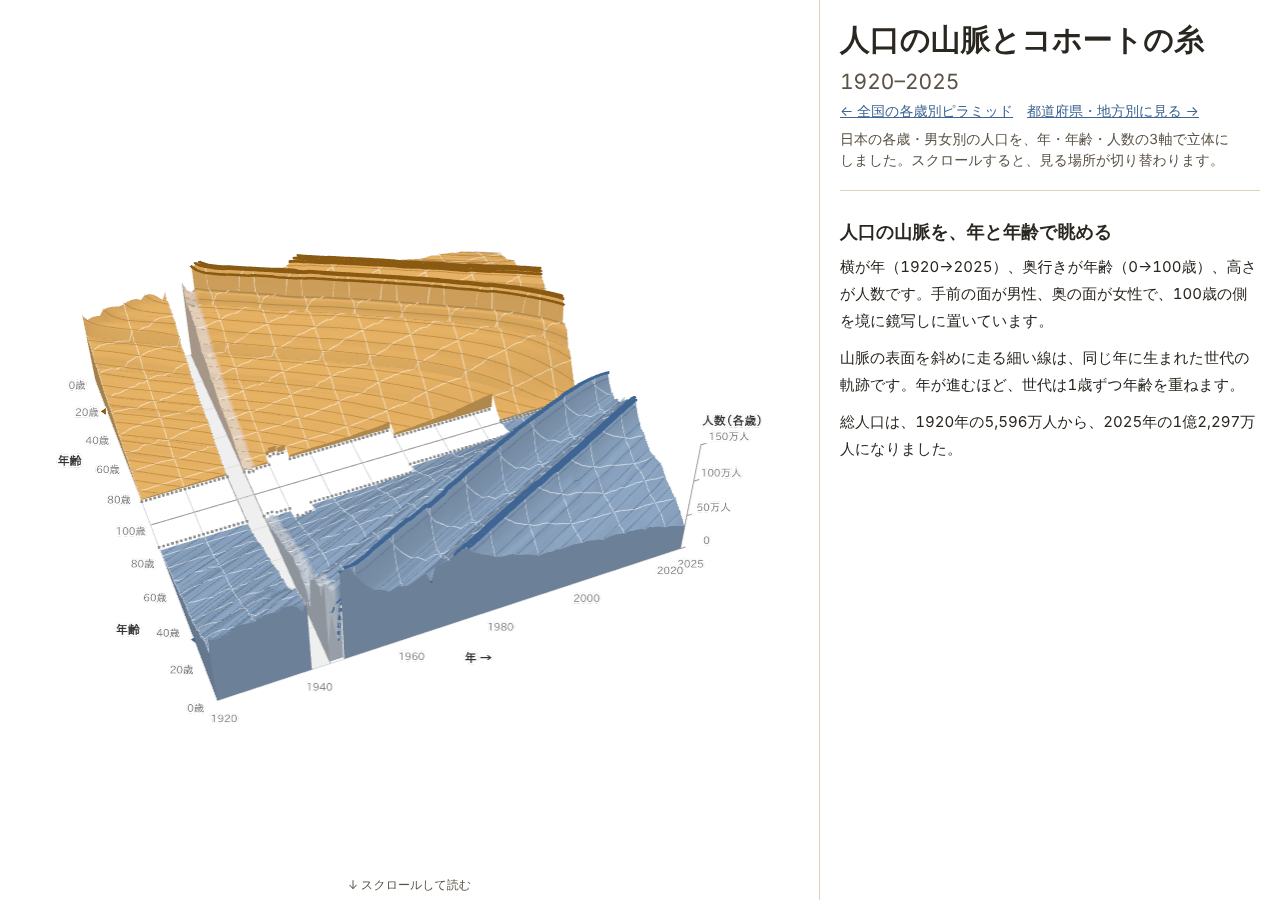
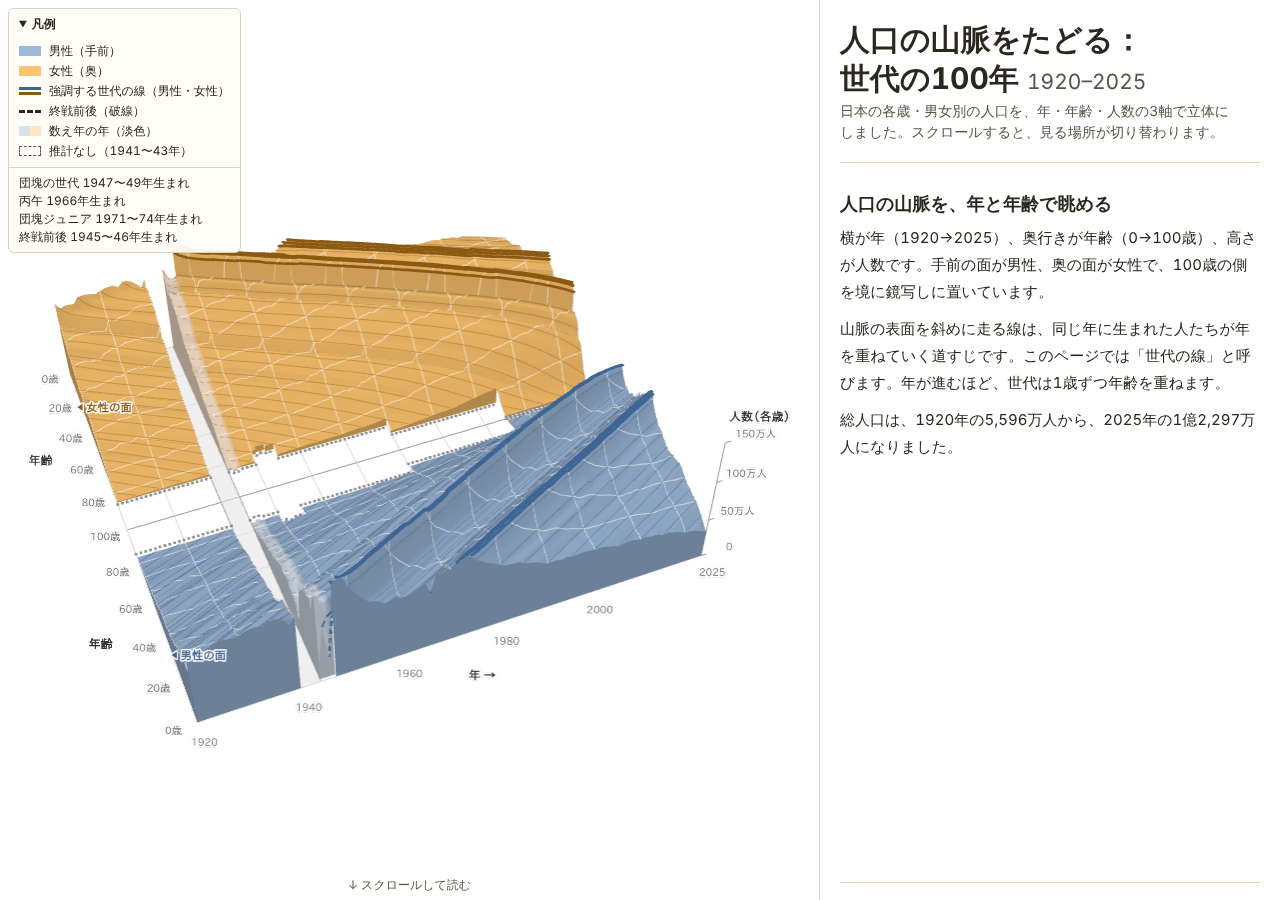
3Dページのタイトルを「人口の山脈をたどる：世代の100年」に改め、「コホートの糸」を「世代の線」に言い換え
- title・h1・og:title・転送ページ・README のページ名を新しいタイトルにする。h1 は2行に分けられる span にした
- 説明文・ツアー・凡例・canvas の aria-label の「糸」「コホート」を「世代の線」に言い換える
- overview の段に、世代の線が何かを説明する1文を足す
- docs/MOUNTAIN.md に画面での表記を1行足す
- E2E の文言を合わせ、本文に「糸」「コホート」が出ないことの検査を足す
- docs/screenshots/mountain-overview-*.png を撮り直す

Claude-Session: https://claude.ai/code/session_01PEzRMk3itmbneTSnLhfQa4

diff --git a/index.html b/index.html
@@ -3,12 +3,12 @@
 <head>
   <meta charset="utf-8">
   <meta name="viewport" content="width=device-width, initial-scale=1">
-  <title>人口の山脈とコホートの糸 1920–2025</title>
-  <meta name="description" content="日本の各歳別人口を、年・年齢・人数の3軸の山脈として眺めます。同じ年に生まれた世代の軌跡（コホートの糸）をたどれます。">
+  <title>人口の山脈をたどる：世代の100年 1920–2025</title>
+  <meta name="description" content="日本の各歳別人口を、年・年齢・人数の3軸の山脈として眺めます。同じ年に生まれた世代が年を重ねていく道すじ（世代の線）をたどれます。">
   <link rel="canonical" href="https://population-pyramid.structure-and-representation.com/">
   <meta property="og:type" content="website">
-  <meta property="og:title" content="人口の山脈とコホートの糸 1920–2025">
-  <meta property="og:description" content="日本の各歳別人口を、年・年齢・人数の3軸の山脈として眺めます。同じ年に生まれた世代の軌跡（コホートの糸）をたどれます。">
+  <meta property="og:title" content="人口の山脈をたどる：世代の100年 1920–2025">
+  <meta property="og:description" content="日本の各歳別人口を、年・年齢・人数の3軸の山脈として眺めます。同じ年に生まれた世代が年を重ねていく道すじ（世代の線）をたどれます。">
   <meta property="og:url" content="https://population-pyramid.structure-and-representation.com/">
   <meta property="og:image" content="https://population-pyramid.structure-and-representation.com/assets/mountain-fallback.png">
   <meta name="twitter:card" content="summary_large_image">
@@ -33,7 +33,7 @@
           <ul class="legend-list">
             <li><span class="sw sw-male"></span>男性（手前）</li>
             <li><span class="sw sw-female"></span>女性（奥）</li>
-            <li><span class="sw sw-thread"><i class="tm"></i><i class="tf"></i></span>強調する世代の糸（男性・女性）</li>
+            <li><span class="sw sw-thread"><i class="tm"></i><i class="tf"></i></span>強調する世代の線（男性・女性）</li>
             <li><span class="sw sw-dash"></span>終戦前後（破線）</li>
             <li><span class="sw sw-kazoe"></span>数え年の年（淡色）</li>
             <li><span class="sw sw-gap"></span><span id="legend-gap">推計なし（1941〜43年）</span></li>
@@ -53,33 +53,33 @@
 
     <div class="m-text">
       <header class="site-header">
-        <h1>人口の山脈とコホートの糸 <span class="range">1920–2025</span></h1>
+        <h1><span class="t-line">人口の山脈をたどる：</span><span class="t-line">世代の100年</span> <span class="range">1920–2025</span></h1>
         <p class="lede">日本の各歳・男女別の人口を、年・年齢・人数の3軸で立体にしました。<span class="d3-only">スクロールすると、見る場所が切り替わります。</span></p>
       </header>
 
       <section class="scene-step" data-step="overview" aria-labelledby="h-overview">
         <h2 id="h-overview">人口の山脈を、年と年齢で眺める</h2>
         <p>横が年（1920→2025）、奥行きが年齢（0→100歳）、高さが人数です。手前の面が男性、奥の面が女性で、100歳の側を境に鏡写しに置いています。</p>
-        <p>山脈の表面を斜めに走る細い線は、同じ年に生まれた世代の軌跡です。年が進むほど、世代は1歳ずつ年齢を重ねます。</p>
+        <p>山脈の表面を斜めに走る線は、同じ年に生まれた人たちが年を重ねていく道すじです。このページでは「世代の線」と呼びます。年が進むほど、世代は1歳ずつ年齢を重ねます。</p>
         <p>総人口は、1920年の<span data-calc="total-1920">5,596万人</span>から、2025年の<span data-calc="total-2025">1億2,297万人</span>になりました。</p>
       </section>
 
       <section class="scene-step" data-step="war" aria-labelledby="h-war">
         <h2 id="h-war">戦争の時期は、データに切れ目がある</h2>
-        <p><span data-note-text="gap-1941-1943">1941〜1943年は年齢別の人口推計が行われていないため、表示していません。</span>面にはすき間が空き、補間はしません。<span data-note-text="kazoe">1944〜1946年の年齢は数え年です。</span>その帯は淡く描き、世代の糸も破線にしています。</p>
+        <p><span data-note-text="gap-1941-1943">1941〜1943年は年齢別の人口推計が行われていないため、表示していません。</span>面にはすき間が空き、補間はしません。<span data-note-text="kazoe">1944〜1946年の年齢は数え年です。</span>その帯は淡く描き、世代の線も破線にしています。</p>
         <p>終戦前後の1945〜1946年生まれ（破線）は、出生が大きく減った世代です。1950年には、3歳（1947年生まれ）の<span data-calc="p1950-3">235万人</span>に対し、4歳（1946年生まれ）は<span data-calc="p1950-4">154万人</span>しかいません。</p>
       </section>
 
       <section class="scene-step" data-step="dankai" aria-labelledby="h-dankai">
         <h2 id="h-dankai">団塊の世代：第1次ベビーブーム</h2>
         <p>1947〜1949年に生まれた「団塊の世代」は、戦後の第1次ベビーブームの世代です。<a href="https://www.mhlw.go.jp/toukei/saikin/hw/jinkou/kakutei25/dl/05_gaikyouR07.pdf" target="_blank" rel="noopener">厚生労働省「人口動態統計」</a>によると、出生数は1947年に2,678,792人、1948年に2,681,624人、1949年に2,696,638人でした。1947〜1972年の出生数には沖縄県を含みません。</p>
-        <p>強調した糸をたどると、この世代は2025年に76〜78歳で、合わせて約<span data-calc="dankai-2025">552万人</span>です。</p>
+        <p>強調した世代の線をたどると、この世代は2025年に76〜78歳で、合わせて約<span data-calc="dankai-2025">552万人</span>です。</p>
       </section>
 
       <section class="scene-step" data-step="hinoeuma" aria-labelledby="h-hinoeuma">
         <h2 id="h-hinoeuma">丙午（1966年生まれ）：出生数の谷</h2>
         <p>1966年は丙午（ひのえうま）の年です。出生数は、前年の1965年に1,823,697人、1966年に1,360,974人、翌1967年に1,935,647人でした（<a href="https://www.mhlw.go.jp/toukei/saikin/hw/jinkou/kakutei25/dl/05_gaikyouR07.pdf" target="_blank" rel="noopener">厚生労働省「人口動態統計」</a>）。1947〜1972年の出生数には沖縄県を含みません。</p>
-        <p>糸は、2025年の断面ではここだけ谷を通ります。2025年には59歳で<span data-calc="h-59">138万人</span>と、58歳の<span data-calc="h-58">178万人</span>、60歳の<span data-calc="h-60">170万人</span>より少なくなっています。</p>
+        <p>この世代の線は、2025年の断面ではここだけ谷を通ります。2025年には59歳で<span data-calc="h-59">138万人</span>と、58歳の<span data-calc="h-58">178万人</span>、60歳の<span data-calc="h-60">170万人</span>より少なくなっています。</p>
       </section>
 
       <section class="scene-step" data-step="dankai-jr" aria-labelledby="h-dankai-jr">
@@ -90,7 +90,7 @@
 
       <section class="scene-step" data-step="flight" aria-labelledby="h-flight">
         <h2 id="h-flight">団塊の世代の尾根に沿って飛ぶ</h2>
-        <p class="d3-only">団塊の世代（1947〜49年生まれ）の糸に沿って、男性の面の尾根のすぐ脇を低く飛びます。生まれた年から2025年まで、この世代が年齢を重ねていく道のりを、尾根の際からたどります。</p>
+        <p class="d3-only">団塊の世代（1947〜49年生まれ）の世代の線に沿って、男性の面の尾根のすぐ脇を低く飛びます。生まれた年から2025年まで、この世代が年齢を重ねていく道のりを、尾根の際からたどります。</p>
         <p class="d3-only">左に見える高い尾根が団塊の世代、右の谷とその先の尾根が、後から生まれた世代です。画面に触れると止まります。</p>
         <p class="fallback-only">対応した環境では、団塊の世代の尾根に沿って、生まれた年から2025年まで低く飛ぶ視点を表示します。</p>
         <p class="d3-only"><button type="button" id="btn-fly-again" class="btn-reset">もう一度飛ぶ</button></p>
@@ -105,7 +105,7 @@
 
       <section class="scene-step" id="free" data-step="free" aria-labelledby="h-free">
         <h2 id="h-free">自分で動かして確かめる</h2>
-        <p class="d3-only">ドラッグで回転、ホイールやピンチで拡大・縮小できます。山脈や糸にカーソルを合わせる（スマートフォンではタップする）と、その地点の人数が出ます。</p>
+        <p class="d3-only">ドラッグで回転、ホイールやピンチで拡大・縮小できます。山脈や世代の線にカーソルを合わせる（スマートフォンではタップする）と、その地点の人数が出ます。</p>
         <div class="free-ui">
           <div class="ctl-group d3-only">
             <span class="ctl-label" id="lbl-form">形</span>

diff --git a/mountain.html b/mountain.html
@@ -3,7 +3,7 @@
 <head>
   <meta charset="utf-8">
   <meta name="viewport" content="width=device-width, initial-scale=1">
-  <title>人口の山脈とコホートの糸（移転しました）</title>
+  <title>人口の山脈をたどる：世代の100年（移転しました）</title>
   <meta http-equiv="refresh" content="0; url=./">
   <link rel="canonical" href="https://population-pyramid.structure-and-representation.com/">
   <script>
@@ -12,6 +12,6 @@
   </script>
 </head>
 <body>
-  <p><a href="./">人口の山脈とコホートの糸はこちらに移りました</a></p>
+  <p><a href="./">人口の山脈をたどる：世代の100年はこちらに移りました</a></p>
 </body>
 </html>

diff --git a/css/style.css b/css/style.css
@@ -25,6 +25,7 @@ body {
   font-size: 13px; font-weight: 700; padding: 4px 8px;
 }
 .site-header h1 { font-size: clamp(22px, 5vw, 30px); margin: 12px 0 2px; line-height: 1.3; }
+.site-header .t-line { display: inline-block; }
 .site-header .range { color: var(--muted); font-weight: 400; font-size: 0.7em; white-space: nowrap; }
 .lede { margin: 0 0 8px; color: var(--muted); font-size: 14px; line-height: 1.5; text-wrap: balance; }
 h2 { font-size: 16px; margin: 0 0 6px; }

diff --git a/README.md b/README.md
@@ -8,7 +8,7 @@
 
 | ページ | ファイル | URL |
 |---|---|---|
-| 3D「人口の山脈とコホートの糸」（公開の入口） | `index.html` | `/` |
+| 3D「人口の山脈をたどる：世代の100年」（公開の入口） | `index.html` | `/` |
 | 全国の各歳別ピラミッド（2D） | `national.html` | `/national.html` |
 | 都道府県・地方別（2D） | `regions.html` | `/regions.html` |
 | 古いURLの転送 | `mountain.html` | `/mountain.html` → `/`（`?step=` などのクエリを引き継ぐ） |
@@ -94,9 +94,9 @@ node tests/e2e/regions.cjs --base http://localhost:8000
 
 全国の各歳別人口を、年・年齢・人数の3軸の「山脈」として立体で見せます。<http://localhost:8000/> で開きます（`?step=free` のように段を指定して開けます。`?fixture=1` はサンプルデータ、`?stub=1` は3D描画を使わない仮実装）。仕様は [docs/MOUNTAIN.md](docs/MOUNTAIN.md) にあります。
 
-**見方**：横が年（1920→2025）、奥行きが年齢（0→100歳）、高さが人数です。手前の面が男性、奥の面が女性で、100歳の側を境に鏡写しに置いています。山を斜めに走る細い線は「コホートの糸」で、同じ年に生まれた世代が年ごとに1歳ずつ年齢を重ねる軌跡です。強調の色は男性が青、女性が茶色で、終戦前後（1945〜46年生まれ）は破線です。1941〜43年は推計がないため面にすき間があり、1944〜46年は数え年なので淡く描きます。各年のいちばん上の段（85歳以上など）は面に含めません。
+**見方**：横が年（1920→2025）、奥行きが年齢（0→100歳）、高さが人数です。手前の面が男性、奥の面が女性で、100歳の側を境に鏡写しに置いています。山を斜めに走る細い線は「世代の線」で、同じ年に生まれた人たちが年ごとに1歳ずつ年齢を重ねていく道すじです。強調の色は男性が青、女性が茶色で、終戦前後（1945〜46年生まれ）は破線です。1941〜43年は推計がないため面にすき間があり、1944〜46年は数え年なので淡く描きます。各年のいちばん上の段（85歳以上など）は面に含めません。
 
-**操作**：右の解説をスクロールすると、見る場所が7段階で切り替わります。最後の「自分で動かして確かめる」では、ドラッグで回転、ホイールやピンチで拡大・縮小、地形型と立体ピラミッド型の切り替え、断面の年のスライダー（推計のない年は動かす向きに飛ばします）、強調する世代の選択ができます。山や糸にカーソルを合わせる（スマートフォンではタップする）と、その地点の世代・年・年齢・人数が出ます。断面の年の人数は、2Dの小窓と「データを表で見る」でも読めます。動きを減らす設定（reduced motion）のときは、変形やカメラの移動をせず、各段の最終の状態をそのまま表示します。
+**操作**：右の解説をスクロールすると、見る場所が7段階で切り替わります。最後の「自分で動かして確かめる」では、ドラッグで回転、ホイールやピンチで拡大・縮小、地形型と立体ピラミッド型の切り替え、断面の年のスライダー（推計のない年は動かす向きに飛ばします）、強調する世代の選択ができます。山や世代の線にカーソルを合わせる（スマートフォンではタップする）と、その地点の世代・年・年齢・人数が出ます。断面の年の人数は、2Dの小窓と「データを表で見る」でも読めます。動きを減らす設定（reduced motion）のときは、変形やカメラの移動をせず、各段の最終の状態をそのまま表示します。
 
 **WebGL が使えないとき**：3D表示の代わりに静止画（`assets/mountain-fallback.png`）と案内文を出します。解説文・データ表・全国ページと地域別ページへのリンクは、そのまま使えます。
 

diff --git a/docs/MOUNTAIN.md b/docs/MOUNTAIN.md
@@ -1,5 +1,7 @@
 # 3Dページ「人口の山脈とコホートの糸」の契約（全担当が参照する）
 
+画面では「コホートの糸」を「世代の線」と表記する。
+
 公開の入口は、この3Dページ（`index.html`）にする。全国ページ（national.html）と地域別ページ（regions.html）は残すが、3Dページからはリンクせず、noindex にして、URLを直接開いた人だけが見られるようにする。旧 `mountain.html` は `/` への転送ページにする。この3Dページで、全国の各歳別人口を3Dで見せる。見た目の基準は、docs/mocks/3d/ の静止画モック（01〜08）と、その元になった mock.html。色は男女の色（モック01）を使う。
 
 Git の手順は docs/PLAN.md §5 と同じ。ブランチは `claude/sharp-newton-grgdly`。所有パスだけを add し、pull --rebase してから push する。force push はしない。
